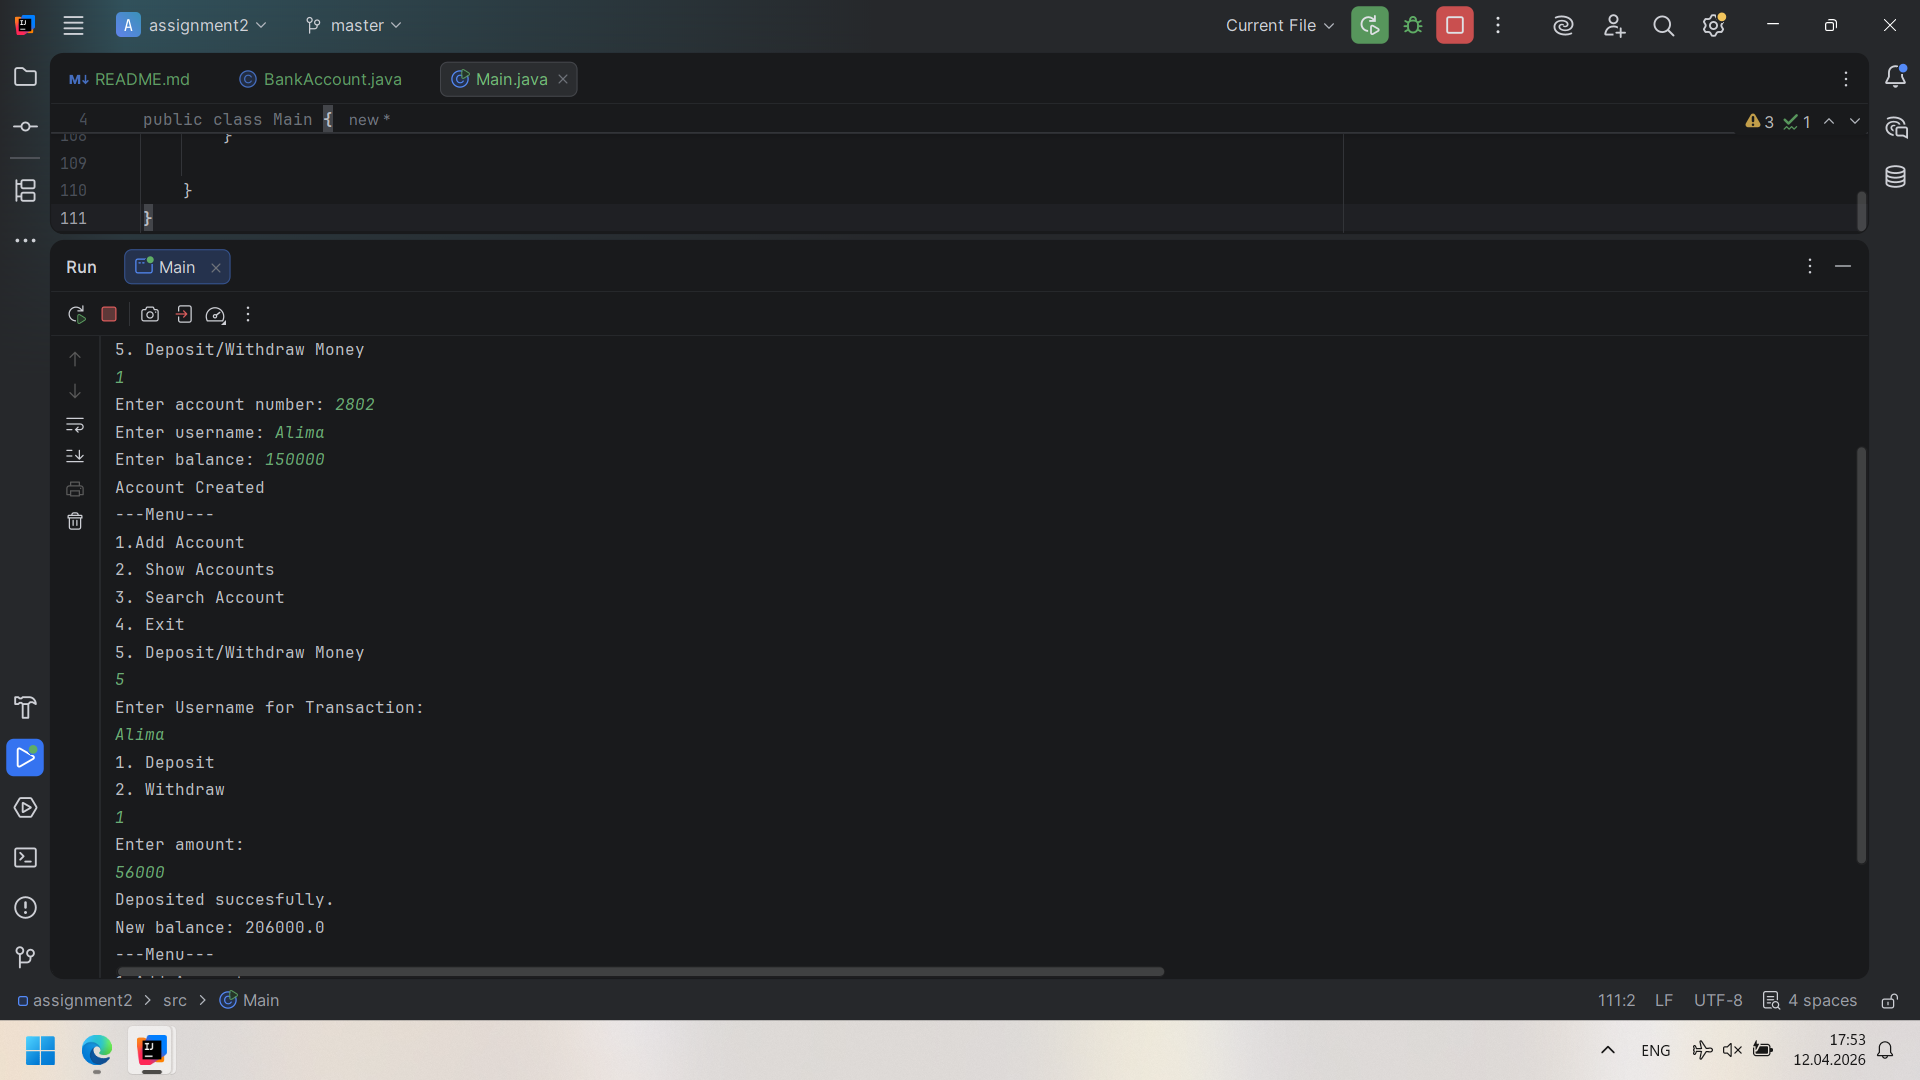
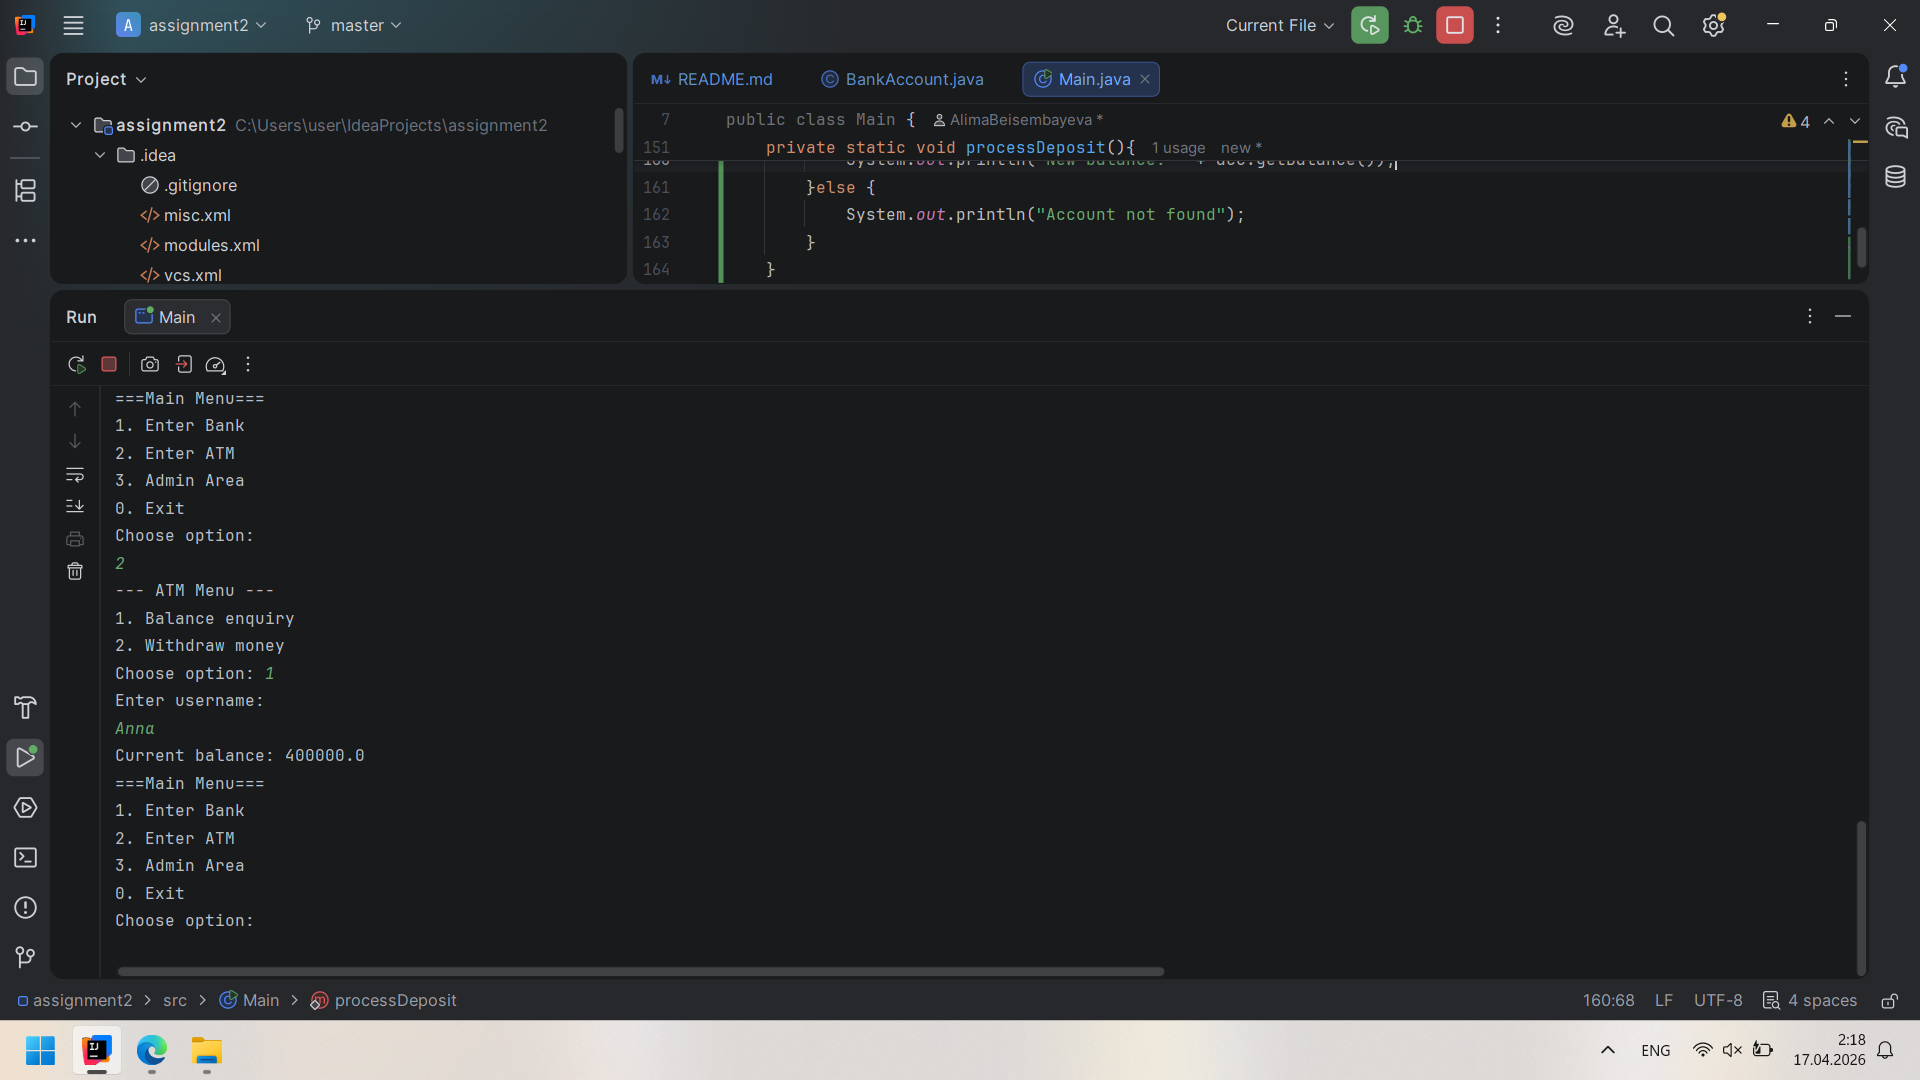
ljnougi

diff --git a/src/BankAccount.java b/src/BankAccount.java
@@ -1,7 +1,7 @@
 public class BankAccount {
-    String accountNumber;
-    String username;
-    double balance;
+    private String accountNumber;
+    private String username;
+    private double balance;
 
     public BankAccount(String accountNumber, String username, double balance){
         this.accountNumber=accountNumber;
@@ -9,18 +9,24 @@ public class BankAccount {
         this.balance=balance;
     }
 
+    public String getUsername(){return username;}
+    public double getBalance(){return balance;}
+
     public void deposit(double amount){
         this.balance +=amount;
     }
 
-    public void withdraw(double amount){
-        this.balance -= amount;
+    public boolean withdraw(double amount){
+        if (this.balance>=amount){
+            this.balance -= amount;
+            return true;
+        }
+        return false;
     }
 
-    public void display(){
-        System.out.println("Account number: " + accountNumber);
-        System.out.println("Username: " + username);
-        System.out.println("Balance: " + balance);
+    @Override
+    public String toString(){
+        return username + " (Account: " + accountNumber + ") - Balance: " + balance;
     }
 }
 
